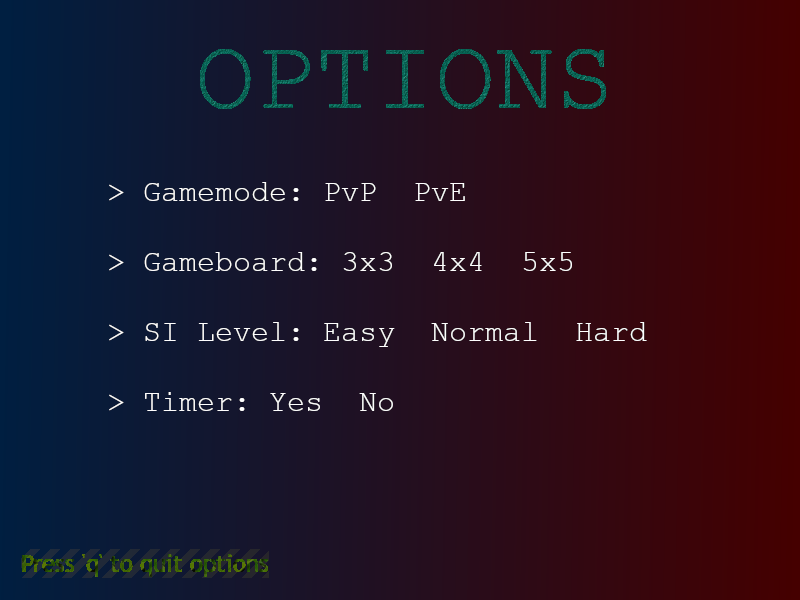
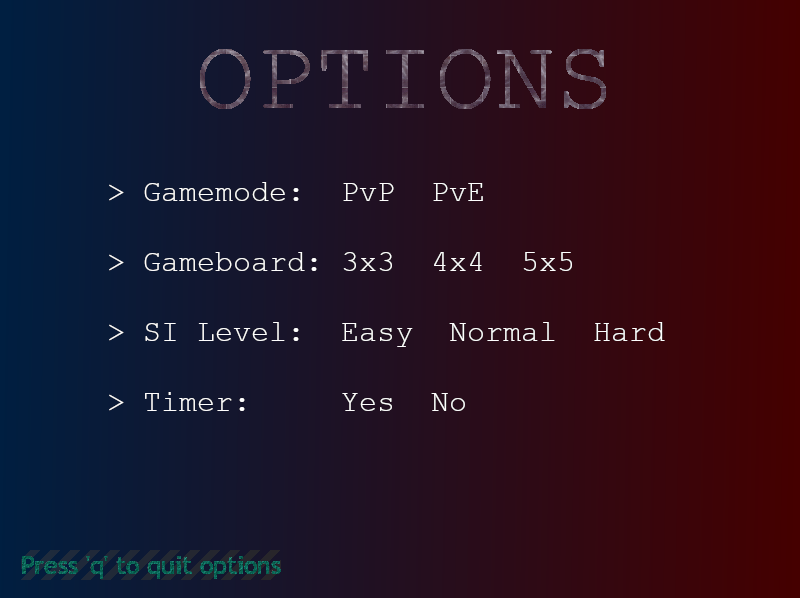
Wprowadzenie widocznej zmiany opcji w zakladce opcje. Pomniejsze usprawnienia szaty graficznej. Menu prototypowe 0.2

diff --git a/main.py b/main.py
@@ -8,15 +8,23 @@ clock = pygame.time.Clock()
 running = 1
 
 game_state = "main_menu"
-game_type = 3
+#game_mode = 1
+#game_board = 3
+#game_SI_level = 0
+#game_timer = 0
+opcja = ("Tryb","Board","SILVL","Timer")
+numer_opcji = 0
+options_attributes = {"Tryb" : [0,1], "Board" : [0,2], "SILVL" : [0,2], "Timer" : [0,1]}
+options_positions = ([323,160], [323,230], [323,300], [323,370])
 background = ""
 titlescreen = pygame.image.load("Backgrounds/prot_titlesc2.png").convert()
 start = (pygame.image.load("Backgrounds/start_0.png").convert(), pygame.image.load("Backgrounds/start_1.png").convert(), pygame.image.load("Backgrounds/start_2.png").convert(),pygame.image.load("Backgrounds/start_3.png").convert(),pygame.image.load("Backgrounds/start_4.png").convert())
 options = pygame.image.load("Backgrounds/prot_opcje.png").convert()
 def generate_options_rect(pos1, pos2):
-    prostokat = pygame.Surface([200,100])
+    prostokat = pygame.Surface([90,65])
     rect = prostokat.get_rect()
-    pygame.draw.rect(screen, "#FFFFFF", rect)
+    rect=rect.move(pos1,pos2)
+    pygame.draw.rect(screen, "#FFFFFF", rect, 3)
     #pygame.display.flip()
 def animated_start(napis):
     for i in napis:
@@ -24,11 +32,11 @@ def animated_start(napis):
         pygame.display.flip()
         time.sleep(0.07)
 def generate_background(bkg):
-    if bkg == 3:
+    if bkg == 0:
         screen.fill("red")
-    elif bkg == 4:
+    elif bkg == 1:
         screen.fill("purple")
-    elif bkg == 5:
+    elif bkg == 2:
         screen.fill("maroon")
     elif bkg == titlescreen:
         screen.blit(bkg, (0, 0))
@@ -49,11 +57,11 @@ while running:
         background = titlescreen
         for event in pygame.event.get():
             if event.type == pygame.KEYDOWN:
-                if  event.key == pygame.K_q:
+                if  event.key == pygame.K_e:
                     running = 0
                     break
                 elif event.key == pygame.K_SPACE:
-                    background = game_type
+                    background = options_attributes["Board"][0]
                     game_state = "playing"
                     break
                 elif event.key == pygame.K_o:
@@ -62,18 +70,6 @@ while running:
             elif event.type == pygame.QUIT:
                 running=0
                 break
-    elif game_state == "options":
-        background = options
-        for event in pygame.event.get():
-            if event.type == pygame.KEYDOWN:
-                if  event.key == pygame.K_q:
-                    game_state = "main_menu"
-                elif event.key == pygame.K_t:
-                    game_type += 1
-                    if game_type > 5:
-                        game_type = 3
-            elif event.type == pygame.QUIT:
-                running=0
     elif game_state == "playing":
         for event in pygame.event.get():
             if event.type == pygame.KEYDOWN:
@@ -82,11 +78,41 @@ while running:
                     break
             elif event.type == pygame.QUIT:
                 running = 0
+    while game_state == "options":
+        background = options
+        generate_background(background)
+        for elem in options_positions:
+            generate_options_rect(elem[0], elem[1])
+        pygame.display.flip()
+        for event in pygame.event.get():
+            if event.type == pygame.KEYDOWN:
+                if  event.key == pygame.K_q:
+                    game_state = "main_menu"
+                elif event.key == pygame.K_DOWN:
+                    numer_opcji+=1
+                    if numer_opcji > 3:
+                        numer_opcji = 0
+                elif event.key == pygame.K_UP:
+                    numer_opcji -= 1
+                    if numer_opcji < 0:
+                        numer_opcji = 3
+                elif event.key == pygame.K_SPACE:
+                    options_attributes[opcja[numer_opcji]][0] += 1
+                    if options_attributes[opcja[numer_opcji]][0] > options_attributes[opcja[numer_opcji]][1]:
+                        options_attributes[opcja[numer_opcji]][0] = 0
+                        options_positions[numer_opcji][0] = 323
+                    else:
+                        options_positions[numer_opcji][0] += 100
+
+            elif event.type == pygame.QUIT:
+                running=0
+        if not running:
+                break
     #obj.draw(screen)
     generate_background(background)
-    generate_options_rect(100, 100)
-    pygame.display.flip()
+    #generate_options_rect(100, 100)
     if game_state == "main_menu" and background == titlescreen:
         animated_start(start)
+    pygame.display.flip()
 
 pygame.quit()
